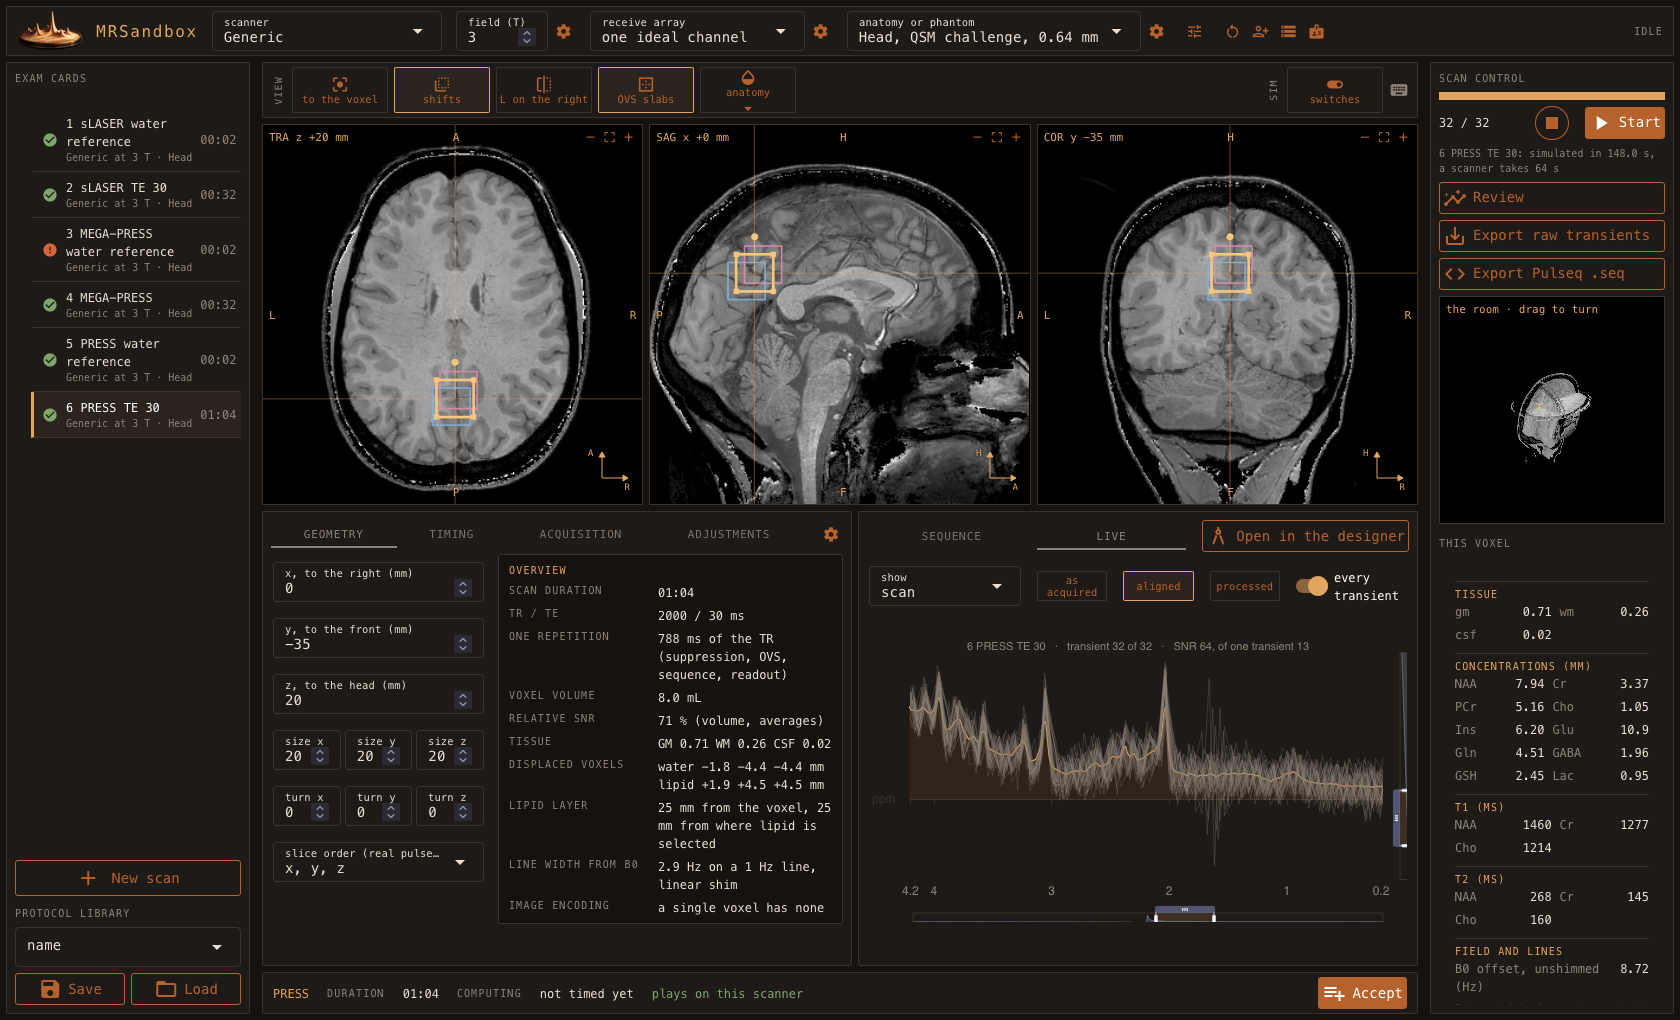
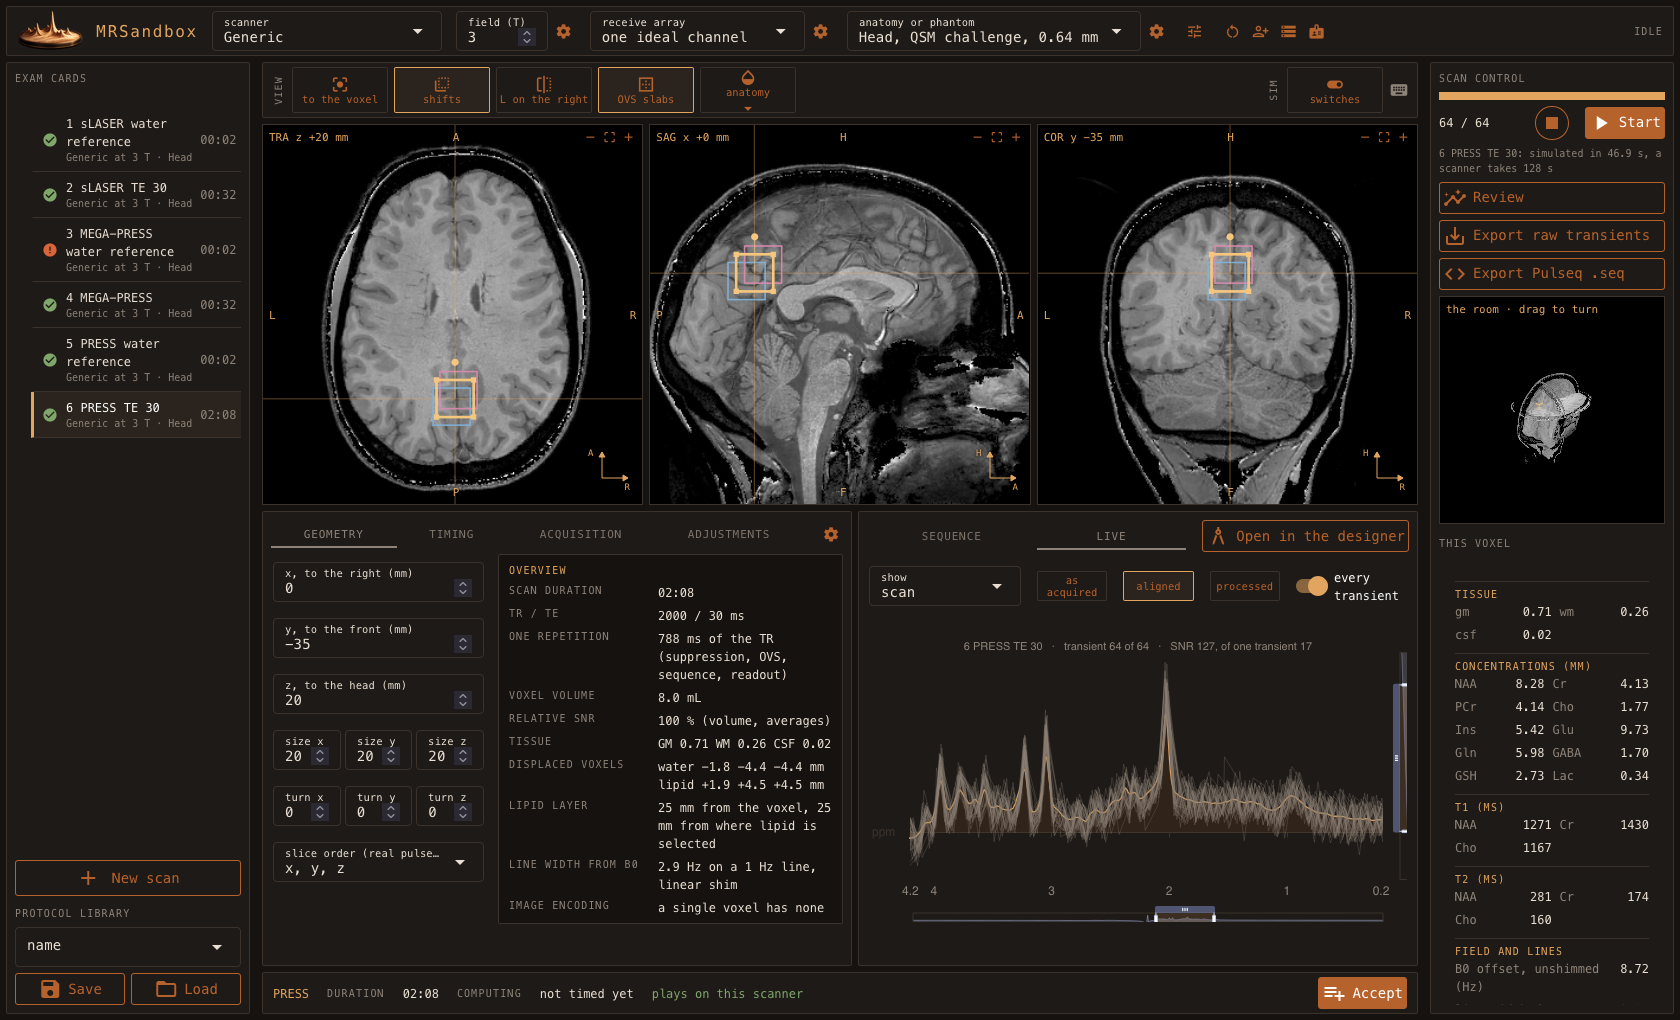
Phase and SNR on the metabolite lines, the shot at 64 averages

diff --git a/mrsandbox/console/session.py b/mrsandbox/console/session.py
@@ -519,8 +519,8 @@ class Exam:
             transients' own spectra {view of one sub-experiment: [real spectrum]}, 32 at most;
             how many the processing left out as unlike the rest.
         snr: The signal to noise ratio of what is shown, (of the average, of one transient
-            alone), the tallest real point upfield over the noise of a signal-free stretch, no
-            apodization.
+            alone), the tallest real point of the metabolite lines (1.8 to 3.4 ppm; a reference's
+            water) over the noise of a signal-free stretch, no apodization.
         records: What the header says of the calibration records in force.
         sequence: The design as it was when the exam was planned (an edited card's first
             sub-experiment).
@@ -2912,6 +2912,9 @@ class Session:
             np.fft.fftfreq(2 * card.npoints, 1.0 / card.bandwidth_hz)) / f0_mhz
         # a water reference shows its water line, every other exam the metabolites upfield of it
         upfield = (ppm > 3.4) & (ppm < 5.9) if reference else (ppm > 0.2) & (ppm < 4.2)
+        # the lines the phase and the SNR are read on: a reference's water, else the metabolites'
+        # singlets from NAA to choline, clear of the residual water's wing at the band's edge
+        lines = upfield if reference else (ppm > 1.8) & (ppm < 3.4)
 
         def combined(weights, count):
             """The FID of a combination over the first `count` transients: every condition's mean
@@ -2927,8 +2930,8 @@ class Session:
         def spectrum(fid, window=window):
             return np.fft.fftshift(np.fft.fft(fid * window, 2 * card.npoints))
 
-        # one zero-order phase for the whole exam, read at the tallest line of the average of
-        # everything (of an own multiplexed design the plain sum may be what the scheme cancels, a
+        # one zero-order phase for the whole exam, read at the tallest of the lines in the average
+        # of everything (of an own multiplexed design the plain sum may be what the scheme cancels, a
         # phase cycle's unwanted signal: there the shown combination gives the phase; an edited
         # scan's sum is its unedited spectrum)
         own = card.sequence == "Custom" and len(names) > 1
@@ -2936,7 +2939,7 @@ class Session:
                                        else {name: 1.0 for name in names}, fids.shape[1]))
         phase = 1.0 if self.processing == COMBINE and not reference else np.exp(
             -1j * np.angle(
-                everything[np.flatnonzero(upfield)[np.abs(everything[upfield]).argmax()]]))
+                everything[np.flatnonzero(lines)[np.abs(everything[lines]).argmax()]]))
         # the whole band: the display opens on `window` and zooms out to it
         wide = np.ones(ppm.size, dtype=bool)
         exam.ppm, exam.window = ppm[wide], (float(ppm[upfield].min()), float(ppm[upfield].max()))
@@ -2973,8 +2976,8 @@ class Session:
         exam.frames = [(count, average, (spectrum(fids[:, count - 1], 1.0) * phase).real[wide])
                        for count, average in exam.builds[exam.shown]]
         exam.spectra = {name: build[-1][1] for name, build in exam.builds.items()}
-        # the consensus SNR of what is shown (Near et al. 2021): the tallest real point within 0.2
-        # to 4.2 ppm (NAA in a brain) over the standard deviation of a signal-free stretch after a
+        # the consensus SNR of what is shown (Near et al. 2021): the tallest real point of the
+        # lines (NAA in a brain) over the standard deviation of a signal-free stretch after a
         # linear detrend; of the average and of one transient alone. The stretch lies inside the
         # band and away from the wings of the broad lines: 9 to 12 ppm where the band reaches
         # 12.3, else -4 to -1 ppm kept 0.3 ppm inside the band's low edge, clear of where a
@@ -2990,7 +2993,7 @@ class Session:
             noise = (real[quiet] - np.polyval(np.polyfit(ppm[quiet], real[quiet], 1),
                                               ppm[quiet])).std()
             # a noise-free preview has no floor: its SNR is not a number
-            return float(real[upfield].max() / noise) if noise > 0.0 else float("nan")
+            return float(real[lines].max() / noise) if noise > 0.0 else float("nan")
 
         weights = exam.combinations[exam.shown]
         exam.snr = (snr(combined(weights, fids.shape[1])),

diff --git a/tests/console/test_session.py b/tests/console/test_session.py
@@ -97,9 +97,10 @@ class TestSession:
         # no apodization
         real = np.fft.fftshift(np.fft.fft(np.asarray(exam.data[:])[0, 0, 0].mean(axis=1),
                                           2 * 1024)).real
-        quiet, upfield = (ppm > 9.0) & (ppm < 12.0), (ppm > 0.2) & (ppm < 4.2)
+        # the signal is the tallest of the metabolite lines, not the residual water's wing
+        quiet, lines = (ppm > 9.0) & (ppm < 12.0), (ppm > 1.8) & (ppm < 3.4)
         floor = real[quiet] - np.polyval(np.polyfit(ppm[quiet], real[quiet], 1), ppm[quiet])
-        assert exam.snr[0] == pytest.approx(real[upfield].max() / floor.std(), rel=1e-6)
+        assert exam.snr[0] == pytest.approx(real[lines].max() / floor.std(), rel=1e-6)
         session.processing = PROCESS
         session.display(exam)
         assert np.isfinite(exam.snr[1]) and exam.snr[1] > 0.0
